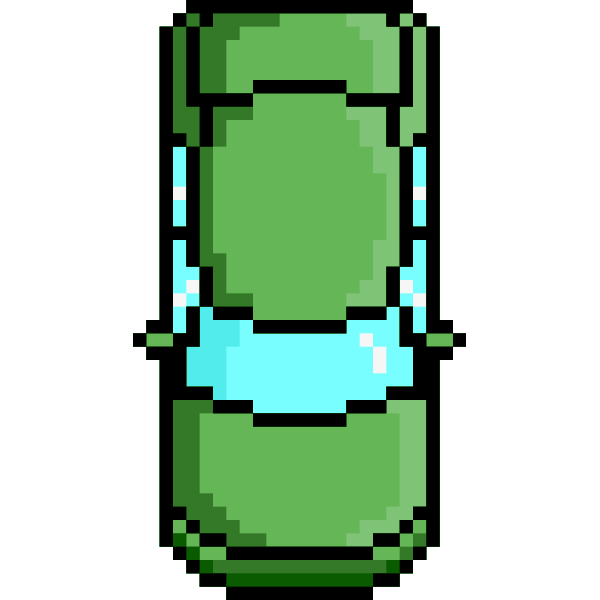
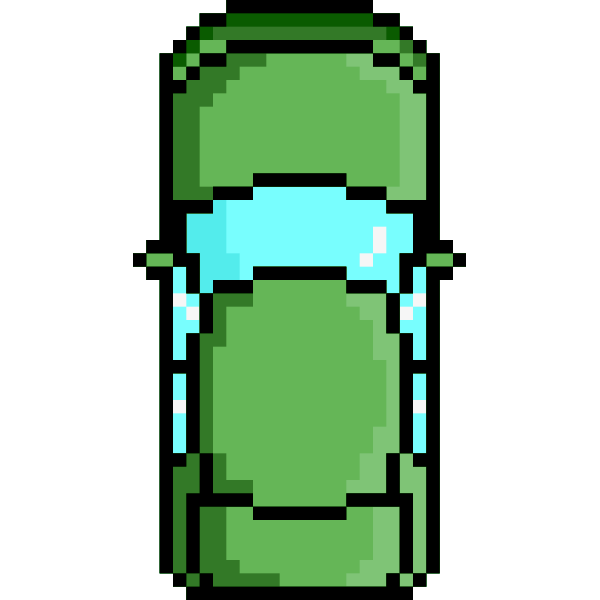
car movement done + basic design

Changed region(s): [[0.21, 0.0, 0.78, 1.0]]

diff --git a/scripts/script.js b/scripts/script.js
@@ -4,13 +4,16 @@ import { ParkingSpot } from "./parkingSpot.js";
 
 const canvas = document.querySelector("canvas");
 const ctx = canvas.getContext("2d");
+let currentLevel = 1
+let switchLevel = false
+
 
 canvas.width = window.innerWidth;
 canvas.height = window.innerHeight;
 
 
 let car = new Car("green", 100, 100, 4)
-let parkingSpot = new ParkingSpot(500, 500, 50, 70)
+let parkingSpot = new ParkingSpot(500, 500, 70, 120)
 
 let keys = {
     up: false,
@@ -21,19 +24,42 @@ let keys = {
 
 // Car movement logic
 function moveCar() {
-    if (keys.up && car.y > 0) car.y -= car.speed;
-    if (keys.down) car.y += car.speed;
-    if (keys.left && car.x > 0) car.x -= car.speed;
-    if (keys.right) car.x += car.speed;
+    const angleOffset = -Math.PI / 2; // 90 degrees in radians
+
+    const speedX = car.speed * Math.cos(car.rotation + angleOffset); // Adjusted horizontal movement
+    const speedY = car.speed * Math.sin(car.rotation + angleOffset); // Adjusted vertical movement
+
+    if (keys.up) {
+        car.x += speedX;
+        car.y += speedY;
+    }
+    if (keys.down) {
+        car.x -= speedX / 2;
+        car.y -= speedY / 2;
+    }
+
+    // going forwards and turning
+    if (keys.left && keys.up) {
+        car.rotation -= 0.03;
+    }
+    if (keys.right && keys.up) {
+        car.rotation += 0.03;
+    }
+
+    // going backwards and turning
+    if (keys.left && keys.down) {
+        car.rotation += 0.023;
+    }
+    if (keys.right && keys.down) {
+        car.rotation -= 0.023;
+    }
 }
 
 // Detect collision with parking spot
 function checkCollisionWithParking() {
     if (
-        car.x + car.width > parkingSpot.x &&
-        car.x < parkingSpot.x + parkingSpot.width &&
-        car.y + car.height > parkingSpot.y &&
-        car.y < parkingSpot.y + parkingSpot.height
+        Math.abs(car.x - parkingSpot.x) < 40 &&
+        Math.abs(car.y - parkingSpot.y) < 40
     ) {
         return true;
     }
@@ -42,28 +68,47 @@ function checkCollisionWithParking() {
 
 // Draw the car
 function drawCar() {
-    const img = document.createElement("img")
-    img.src = car.img
-    ctx.drawImage(img, car.x, car.y)
+    const img = document.createElement("img");
+    img.src = car.img;
+
+    ctx.save();
+
+    ctx.translate(car.x + car.width / 2, car.y + car.height / 2);
+    ctx.rotate(car.rotation);
+
+    ctx.drawImage(img, -car.width / 2, -car.height / 2, car.width, car.height);
+
+    ctx.restore();
+
 }
 
-// Draw the parking spot
+
 function drawParkingSpot() {
-    ctx.fillStyle = "green";
-    ctx.fillRect(parkingSpot.x, parkingSpot.y, parkingSpot.width, parkingSpot.height);
+    if (checkCollisionWithParking()) ctx.fillStyle = "lightgreen";
+    else ctx.fillStyle = "green";
+    ctx.lineWidth = "5"
+    ctx.rect(parkingSpot.x, parkingSpot.y, parkingSpot.width, parkingSpot.height);
+    ctx.stroke()
+    ctx.fill()
 }
 
-// Draw everything
 function draw() {
     ctx.clearRect(0, 0, canvas.width, canvas.height);
 
-    // Draw parking spot
-    drawParkingSpot();
+    if (switchLevel) {
+        switch (currentLevel) {
+            case 2: {
+                car.x = 300
+                switchLevel = false
+                break;
+            }
+        }
+    }
 
-    // Draw the car
+    drawObstacles()
+    drawParkingSpot();
     drawCar();
 
-    // Check if the car is parked
     if (checkCollisionWithParking()) {
         ctx.fillStyle = "black";
         ctx.font = "30px Arial";
@@ -71,7 +116,10 @@ function draw() {
     }
 }
 
-// Keydown event listener to handle car movement
+function drawObstacles() {
+
+}
+
 window.addEventListener("keydown", (event) => {
     if (event.key === "ArrowUp") keys.up = true;
     if (event.key === "ArrowDown") keys.down = true;
@@ -83,7 +131,6 @@ window.addEventListener("keydown", (event) => {
     if (event.key === "d") keys.right = true;
 });
 
-// Keyup event listener to stop car movement
 window.addEventListener("keyup", (event) => {
     if (event.key === "ArrowUp") keys.up = false;
     if (event.key === "ArrowDown") keys.down = false;
@@ -93,16 +140,13 @@ window.addEventListener("keyup", (event) => {
     if (event.key === "s") keys.down = false;
     if (event.key === "a") keys.left = false;
     if (event.key === "d") keys.right = false;
-    if (event.key === "r" || event.key === "R") NextLevel();
+    if (event.code === "Space" && checkCollisionWithParking()) {
+        currentLevel += 1
+        switchLevel = true
+    }
 });
 
-// Reset the game when the car is parked
-function NextLevel() {
-    car.x = 100;
-    car.y = 100;
-}
 
-// Main game loop
 function gameLoop() {
     moveCar();
     draw();

diff --git a/scripts/car.js b/scripts/car.js
@@ -3,6 +3,9 @@ export class Car {
         this.x = x
         this.y = y
         this.speed = speed
+        this.width = 100
+        this.height = 100
+        this.rotation = 0
 
         switch (color) {
             case "green": this.img = "img/car_green.png"

diff --git a/style.css b/style.css
@@ -7,4 +7,8 @@ body {
 canvas {
     display: block;
     background-color: #e0e0e0;
+    margin: 100px auto;
+    width: 1000px;
+    border: 2px solid black;
+    border-radius: 10px;
 }

diff --git a/scripts/parkingSpot.js b/scripts/parkingSpot.js
@@ -5,5 +5,6 @@ export class ParkingSpot {
         this.y = y
         this.width = width
         this.height = height
+        this.rotation = 0
     }
 };
